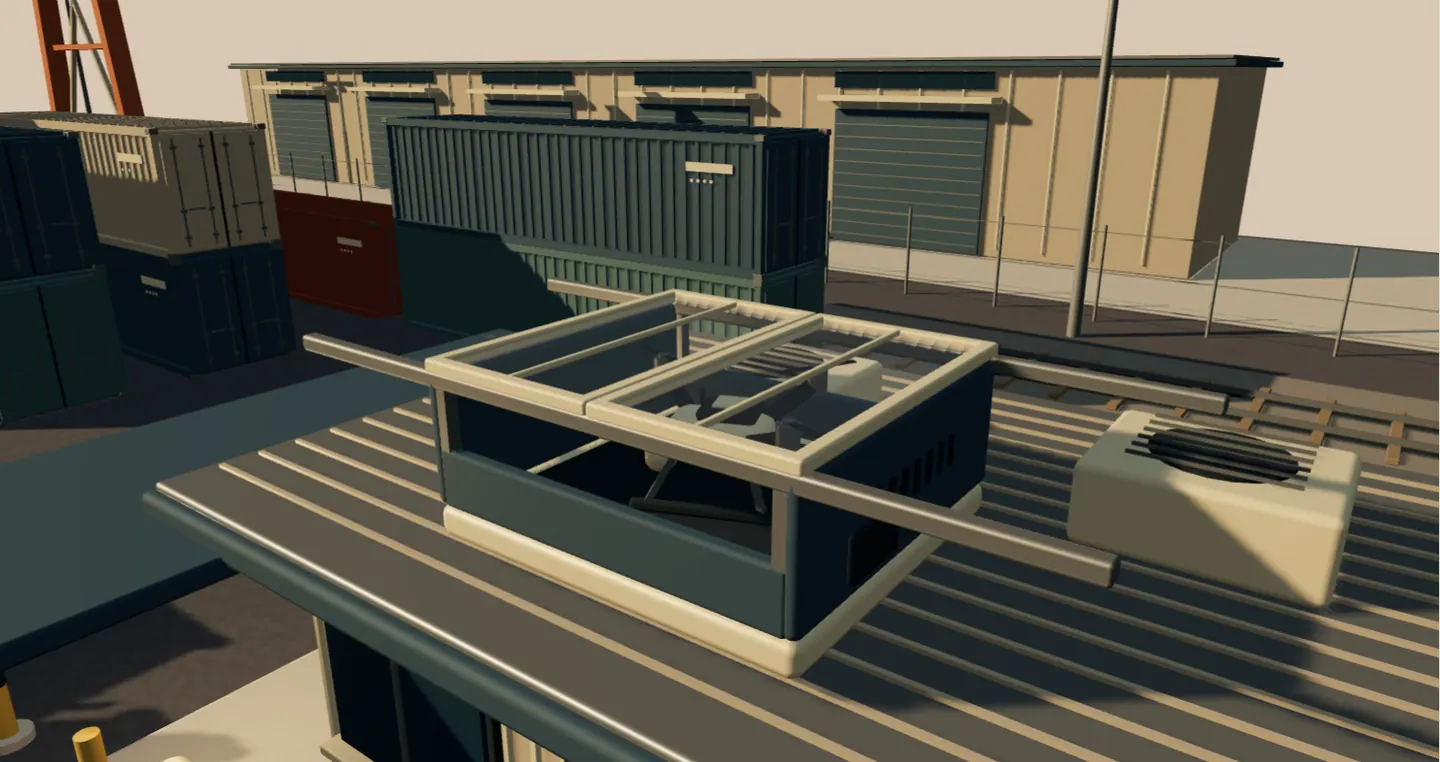
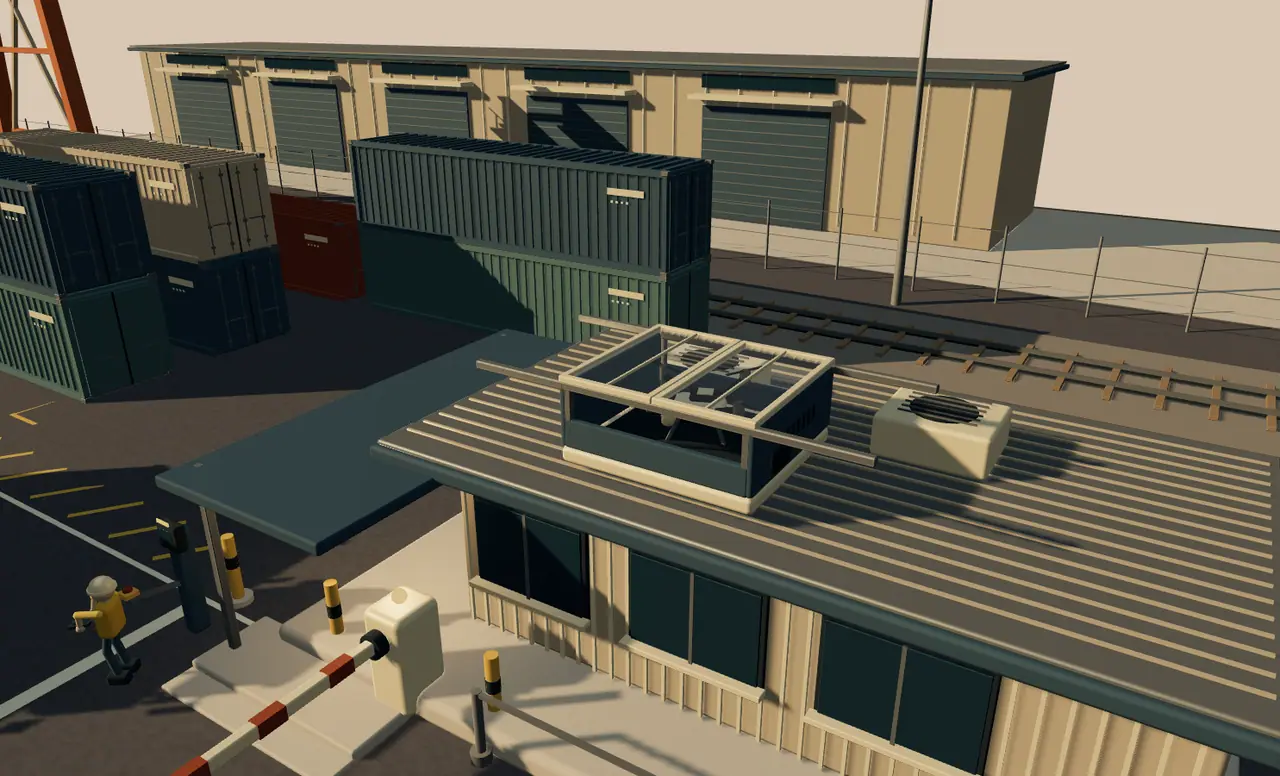
Make logistics incident continuous and automatic
Author a continuous PCHIP route through the full122-second cargo diversion,
operator review, separate staff response and requested drone/dock cycle.
Keep approval within the story, with readable review and checkpoint dwells.
Retain accepted mechanics, clarify phone staff/control framing and labels,
and regenerate the affected state bank from the authored camera source.

Validated production desktop/phone automatic playback, source/render camera
parity, optional controls, exact reverse pixels, fallback states, sampled
clearance, scoped resource reuse and bounded visual review. Typecheck,
contract, scoped continuity and production build pass.

Codex-Agent: tessure-s5
Codex-Session: 01a0d08f-a481-7203-b667-c5bffcc0366a

diff --git a/site/components/worlds/scenes/logistics-yard/content.ts b/site/components/worlds/scenes/logistics-yard/content.ts
@@ -1,52 +1,50 @@
 import type { CameraKey, ScenarioVariant, SceneDefinition } from '../../contract'
 import { T } from './incident'
-import { droneTimes } from './motion'
-const view=(at:number,position:[number,number,number],target:[number,number,number],mobilePosition=position,mobileTarget=target,cut=true,fov=44):CameraKey=>({at,position,target,mobilePosition,mobileTarget,cut,fov,easing:'smoother'})
+import { droneTimes, dronePosition } from './motion'
+const droneLook=(at:number):[number,number,number]=>{const p=dronePosition(at);return[p[0],p[1]+.5,p[2]]}
+const view=(at:number,position:[number,number,number],target:[number,number,number],mobilePosition=position,mobileTarget=target,fov=46):CameraKey=>({at,position,target,mobilePosition,mobileTarget,fov,interpolation:'pchip'})
 export const incident:ScenarioVariant={
  id:'insider-cargo-transfer',label:'Insider-assisted cargo theft attempt',role:'primary',duration:T.end,
  lesson:'Follow the physical load, compare it with the handling assignment, and keep release authority separate from imagery. People verify the incident while the cargo stays inside.',
  establishing:{title:'One marked load, an assigned bay',body:'Authored red-team simulation. Load A7 is scheduled for the empty staging bay. An empty carrier waits in the transfer lane. The orange-clad insider operates the crane; the blue-clad driver is the scripted accomplice. A supervisor and gate attendant work separately.',evidence:[{kind:'observed',source:'Handling assignment · illustrative',detail:'Marked load A7 → staging bay. No outbound release assigned.'},{kind:'uncertainty',source:'Fictional roles',detail:'Insider and accomplice are authored roles, not identities inferred by sensors.'}]},
  poster:'/worlds/logistics-yard/poster.webp',posterAlt:'A marked container being diverted by a gantry onto a waiting carrier, past its empty assigned bay, in an amber intermodal yard.',
  cameras:[
- view(0,[8,25,31],[-11,3,-6],[11,33,38],[-11,3,-5],true,48),
- view(T.hoistStart,[-9,4.1,1],[-15.1,1.4,-4.9],[-9.5,4.3,.5],[-15,1.5,-4.8]),
- view(T.detect,[-8,10,-2],[-20,3.1,-11],[-8,12,-1],[-20,3.1,-11]),
- view(T.locked,[-8,10,-2],[-20,3.1,-11],[-8,12,-1],[-20,3.1,-11],false),
- view(T.lifted,[-6,14,7],[-20,4.8,-7],[-4,18,11],[-20,4.5,-6]),
- view(T.overCarrier,[-7,12,12],[-20,4.1,0],[-5,15,16],[-20,4,0],false),
- view(T.deposited,[-11,6,8],[-19,2.3,0],[-10,7.4,10],[-19,2.4,0]),
- view(T.released,[-11,6,8],[-19,2.3,0],[-10,7.4,10],[-19,2.4,0],false),
- view(T.verify,[-8,4,5],[-13.6,2.5,0],[-8,4.6,5.2],[-13.6,2.6,0]),
- view(33,[-3,8,17],[-14,2,0],[-2,10,20],[-14,2.3,0]),
- view(T.sensors,[-7.2,7.7,-2.8],[-2.8,4.8,3.1],[-6.1,7,-2],[-2.3,5,3.5]),
- view(37,[8,8,18],[-5,2,0],[10,10,20],[-4,2,0]),
- view(T.correlate,[28,12,20],[12,2,-1],[28,15,24],[12,2,-1]),
- view(T.stopped,[27,8,17],[14,1.8,-2],[27,9,20],[14,2,-1.5]),
- view(T.decide,[31,13,17],[17,3,-3],[35,22,29],[16,3,-3]),
- view(T.respond,[29,8.5,10],[20.3,2.4,-4.2],[28,10,13],[20.2,2.5,-4.1]),
- view(55.2,[27,7.4,8],[19.1,1.5,-2.6],[28,9,11],[19.4,1.8,-3],false),
- view(T.supervisorAt,[21,3.5,2],[17.8,1.2,-2.3],[21,4,2],[17.8,1.2,-2.3]),
- view(T.control,[21,3.5,2],[17.8,1.2,-2.3],[21,4,2],[17.8,1.2,-2.3],false),
- view(T.signal,[22,5,5],[16.7,1.7,-1],[22,6,6],[16.7,1.7,-1]),
- view(60.5,[-8,4.7,2],[-13.8,1.2,-4.8],[-8,5.7,3],[-13.8,1.2,-4.8]),
- view(65.5,[-8,5.7,2],[-13.5,1.1,-5.5],[-7,7,4],[-13.3,1.2,-5.5]),
- view(73.5,[-1,5.7,2],[-6,1.1,-6.5],[-.5,7,4],[-6,1.2,-6.5],false),
- view(T.checkpoint,[-11,4,1],[-6,1.2,-6.5],[-11,5.5,2],[-6,1.2,-6.5]),
- view(T.droneOpen,[29,7,-2],[25.4,5,-6.9],[28.5,7.3,-1.8],[25.4,4.9,-6.9]),
- view(T.droneLift,[30,10,1],[25.4,6.4,-6.9],[30,10,1],[25.4,6.4,-6.9],false),
- view(82.3,[30,12,-1],[25.4,8.9,-6.9],[30,11.5,-1],[25.4,8.9,-6.9]),
- view(88.2,[24,12,-7],[20,9.3,-13],[24,11.5,-7.5],[20,9.3,-13],false),
- view(T.droneObserve,[25,13,-20],[16,5,-6],[23.5,12,-18.5],[18.5,7.5,-9]),
- view(T.droneReturn,[25,13,-20],[16,5,-6],[23.5,12,-18.5],[18.5,7.5,-9],false),
- view(94.4,[24,12,-7],[20,9.3,-13],[24,11.5,-7.5],[20,9.3,-13]),
- view(100.2,[29.4,11.6,-.9],[25.4,8.9,-6.9],[29.4,11.1,-1.4],[25.4,8.9,-6.9],false),
- view(100.3,[30,9.5,1],[25.4,6.4,-6.9],[30,9.5,1],[25.4,6.4,-6.9]),
- view(102.8,[30,9.5,1],[25.4,6.4,-6.9],[30,9.5,1],[25.4,6.4,-6.9],false),
- view(T.droneLand,[29,7,-2],[25.4,5,-6.9],[28.5,7.3,-1.8],[25.4,4.9,-6.9],false),
- view(T.droneClosed,[29,7,-2],[25.4,5,-6.9],[28.5,7.3,-1.8],[25.4,4.9,-6.9],false),
- view(109,[-11,4,1],[-6,1.2,-6.5],[-11,5.5,2],[-6,1.2,-6.5]),
- view(T.resolve,[24,19,25],[6,2,-4],[28,24,33],[6,2,-3]),
- view(T.end,[24,19,25],[6,2,-4],[28,24,33],[6,2,-3],false),
+ // One front-apron route; repeated poses provide readable authored viewing intervals.
+ view(0,[-1,18,22],[-17,3,-5],[-1,22,26],[-17,3,-5],48),
+ view(4,[-8,8,8],[-17,2.4,-5.6],[-7,10,10],[-17,2.4,-5.6]),
+ view(7,[-8,8,8],[-17,2.4,-5.6],[-7,10,10],[-17,2.4,-5.6]),
+ view(11,[-10,10,6],[-20,3.8,-9],[-8,12,9],[-20,3.8,-9]),
+ view(15,[-8,13,10],[-20,4.8,-6],[-6,16,13],[-20,4.8,-6]),
+ view(20,[-8,12,12],[-20,4.8,-1.5],[-6,15,15],[-20,4.8,-1.5]),
+ view(25,[-10,7,10],[-19,2.8,0],[-9,9,12],[-19,2.8,0]),
+ view(29,[-9,6,10],[-18.3,2.5,0],[-8,8,12],[-18.3,2.5,0]),
+ view(32,[-6,7,12],[-13,2.7,0],[-5,9,15],[-13,2.7,0]),
+ view(35,[0,9.5,14],[-7,3,0],[2,12,19],[-7,3,0]),
+ view(40,[14,10,18],[5,2.4,0],[17,13,22],[5,2.4,0]),
+ view(46,[27,9,17],[15,2.1,-2],[29,12,21],[15,2.1,-2]),
+ view(50,[27,9,17],[15,2.1,-2],[29,12,21],[15,2.1,-2]),
+ view(54,[27,8.5,10],[20.3,2.4,-4.2],[28,10,13],[20.3,2.4,-4.2]),
+ view(58,[21,4.5,4],[17.8,1.2,-2.3],[20.5,3.3,1],[17.65,1.25,-2.45]),
+ view(59.5,[21,4.5,4],[17.8,1.2,-2.3],[20.5,3.3,1],[17.65,1.25,-2.45]),
+ view(62,[21,6,8],[16.5,1.7,-1],[22,7.5,10],[16.5,1.7,-1]),
+ view(65,[7,10,13],[2,1.7,-3],[8,12,16],[2,1.7,-3]),
+ view(68,[-8,5.3,3],[-13.8,1.2,-4.8],[-7,6.7,5],[-13.8,1.2,-4.8]),
+ view(71,[-8,5.7,3],[-13.5,1.2,-5.5],[-7,7,5],[-13.5,1.2,-5.5]),
+ view(75,[-2,9.5,7],[-8.5,1.2,-6.7],[-1,10,8],[-8.5,1.2,-6.7]),
+ view(79,[2,8.5,8],[-6,1.2,-6.7],[0,10,7],[-6,1.2,-6.7]),
+ view(81,[2,8.5,8],[-6,1.2,-6.7],[0,10,7],[-6,1.2,-6.7]),
+ view(83,[22,11,6],[20,4,-6.9],[22,13,8],[20,4,-6.9]),
+ view(84,[30,8,0],[25.4,5,-6.9],[31,9,2],[25.4,4.9,-6.9]),
+ view(86.8,[30,8,0],[25.4,5,-6.9],[31,9,2],[25.4,4.9,-6.9]),
+ view(91.3,[30,12,-1],[25.4,8.9,-6.9],[30,11.5,-1],[25.4,8.9,-6.9]),
+ view(97.3,[29,13,-16],[17,5.5,-6],[27.5,12.5,-17],droneLook(97.3)),
+ view(101,[29,13,-16],[17,5.5,-6],[27.5,12.5,-17],droneLook(97.3)),
+ view(104,[29,13,-16],[19,6,-7],[27.5,12.5,-17],droneLook(104)),
+ view(107,[30,12,-7],[25,8.5,-7.5],[30,11.5,-7],droneLook(107)),
+ view(109.3,[30,10,1],[25.4,7,-6.9],[30,10,1],droneLook(109.3)),
+ view(113,[30,8,0],[25.4,5,-6.9],[31,9,2],[25.4,4.9,-6.9]),
+ view(116.5,[30,8,0],[25.4,5,-6.9],[31,9,2],[25.4,4.9,-6.9]),
+ view(122,[24,19,25],[6,2,-4],[28,24,33],[6,2,-3],48),
  ],
  beats:[
  {id:'detect',at:T.detect,title:'The insider seats the spreader',body:'At the physical crane controls, the scripted insider lowers the spreader onto marked load A7. The assigned staging bay remains empty. The transfer camera records the physical load and mechanism, not a person’s intent.',evidence:[{kind:'observed',source:'Transfer camera',detail:'Spreader seated on the same marked container shown in the source cradle.'}],subevents:[
@@ -59,14 +57,14 @@ export const incident:ScenarioVariant={
  {id:'complementary-views',at:T.sensors,title:'Different observations of the lane',body:'The fixed camera shows carrier/load continuity; panel radar contributes motion. The proposed thermal head contributes exposed work-lane occupancy within its sector. Gantry steel interrupts the transfer camera during part of the traverse; no sensor sees through containers.',evidence:[{kind:'observed',source:'Camera / radar / proposed thermal',detail:'Complementary illustrated observations cover the open approach. Thermal does not see through cab glazing or containers, identify cargo, or infer the operator’s role.'},{kind:'uncertainty',source:'Coverage',detail:'The far side of the held load remains outside the ground camera’s direct view.'}]}]},
  {id:'correlate',at:T.correlate,title:'Wrong transfer, no authorized release',body:'Proposed on-site correlation links the visible transfer, A7’s staging assignment and the missing outbound release. Preauthorized site policy keeps the exit held and raises a local review cue. The driver brakes before the closed barrier.',evidence:[{kind:'correlation',source:'Proposed local correlation',detail:'Camera/load continuity + independent approach track + handling/release records form one reviewable incident.'},{kind:'response',source:'Preauthorized release policy',detail:'Exit remains held; a local hold/review indication activates.'},{kind:'uncertainty',source:'Investigation',detail:'The actors’ roles are scripted; sensing alone does not prove collusion.'}],subevents:[
  {id:'carrier-stopped',at:T.stopped,title:'The cargo stays inside',body:'The carrier stops on the inspection apron, short of the closed exit boom. The container is supported and secured; driver and insider remain at separate controls.',evidence:[{kind:'observed',source:'Exit camera + gate contact',detail:'Carrier stationary inside; closed barrier contact unchanged.'}]}]},
- {id:'decide',at:T.decide,title:'Hold release and intervene locally',body:'Send the supervisor to the stop/hold control, have the gate attendant guide the crane operator to the staffed checkpoint, and request the proposed docked drone’s lateral view. More imagery cannot provide release permission.',action:'Keep release held; send the supervisor and request a docked aerial view',evidence:[{kind:'observed',source:'Current physical state',detail:'Container supported on stopped carrier; barrier closed; drone parked.'},{kind:'uncertainty',source:'Human verification',detail:'Handling authority and responsibility remain for staff to verify.'}]},
- {id:'respond',at:T.respond,title:'Staff take their separate roles',body:'After explicit approval, the supervisor leaves dispatch over the modeled steps. The gate attendant prepares to approach the insider at the crane controls. The driver stays in the cab; the load and empty crane mechanism remain stationary.',evidence:[{kind:'response',source:'Authorized staff response',detail:'Supervisor to hold control; attendant to crane operator; no person enters the suspended-tool or vehicle envelope.'}],subevents:[
+ {id:'decide',at:T.decide,title:'The operator authorizes a local check',body:'The operator checks the handling and release record, keeps the exit held, and authorizes staff intervention plus a proposed aerial view. The sequence continues automatically; imagery does not grant release permission.',action:'The operator keeps release held and authorizes staff and the docked aerial check',evidence:[{kind:'observed',source:'Current physical state',detail:'Container supported on stopped carrier; barrier closed; drone parked.'},{kind:'uncertainty',source:'Human verification',detail:'Handling authority and responsibility remain for staff to verify.'}]},
+ {id:'respond',at:T.respond,title:'Staff take their separate roles',body:'Following the operator’s in-story authorization, the supervisor leaves dispatch over the modeled steps. The gate attendant prepares to approach the insider at the crane controls. The driver stays in the cab; the load and empty crane mechanism remain stationary.',evidence:[{kind:'response',source:'Authorized staff response',detail:'Supervisor to hold control; attendant to crane operator; no person enters the suspended-tool or vehicle envelope.'}],subevents:[
  {id:'hold-control',at:T.control,title:'A physical local hold',body:'The supervisor presses the local stop/hold control. The carrier remains stopped and the exit stays closed. The gate attendant approaches the insider; the requested drone remains parked until the ground response is established.',evidence:[{kind:'response',source:'Supervisor + dock control',detail:'Hand contacts hold button; proposed drone remains parked after approval.'}]},
  {id:'driver-signalled',at:T.signal,title:'Keep the carrier here',body:'The supervisor gives a visible stop signal to the driver. The attendant approaches the insider, then guides them toward the staffed checkpoint; neither walks under the load.',evidence:[{kind:'response',source:'Ground team',detail:'Driver remains seated at the stopped carrier; separate escort route stays behind the work lane.'}]},
  {id:'operator-guided',at:T.guided,title:'Away from the crane controls',body:'The attendant gestures and leads toward the staffed checkpoint. The insider releases the console, walks around it and follows along the separate personnel route.',evidence:[{kind:'response',source:'Ground team',detail:'Two distinct people move away from the safe crane; driver remains in the stopped cab.'}]},
  {id:'checkpoint-held',at:T.checkpoint,title:'Operator and attendant at the checkpoint',body:'The attendant and insider reach separate positions at the staffed checkpoint. The driver remains with the held carrier. The attempt has not moved the cargo out of the yard.',evidence:[{kind:'observed',source:'Staffed checkpoint',detail:'Insider away from crane controls; attendant present; driver and cargo stay at inspection apron.'}]},
  {id:'dock-opening',at:T.droneOpen,title:'The requested dock opens',body:'With the ground team in place and release still held, the approved dock covers slide fully clear. The aircraft remains supported while its rotors power up.',evidence:[{kind:'response',source:'Approved proposed dock',detail:'Covers clear the aircraft before rotor spool and lift.'}]},
- {id:'drone-departure',at:T.droneLift,title:'An approved lateral view',body:'With its dock open and rotors powered, the proposed drone lifts from its supported pad into a clear side corridor. It observes equipment and the held load lane, not faces.',evidence:[{kind:'response',source:'Requested proposed drone',detail:'Supported takeoff follows human approval, outside crane/load/people envelopes.'}]},
+ {id:'drone-departure',at:T.droneLift,title:'An approved lateral view',body:'With its dock open and rotors powered, the proposed drone lifts from its supported pad into a clear side corridor. It observes equipment and the held load lane, not faces.',evidence:[{kind:'response',source:'Requested proposed drone',detail:'Supported takeoff follows the operator’s authored authorization, outside crane/load/people envelopes.'}]},
  {id:'airborne-transit',at:droneTimes.cruise,title:'A clear side corridor',body:'The drone clears the roof vertically before translating toward the far side of the held load. The aircraft banks with its path and the gimbal keeps the inspection target in view.',evidence:[{kind:'response',source:'Proposed aircraft and gimbal',detail:'Lateral transit remains outside the crane, stored cargo and staff envelopes.'}]},
  {id:'lateral-observation',at:T.droneObserve,title:'See the load’s far side',body:'The drone holds an aimed gimbal view from the lateral corridor, adding a sight line unavailable to the ground camera. The ground hold is unchanged; the additional image grants no permission.',evidence:[{kind:'response',source:'Proposed drone gimbal',detail:'Aimed at the marked load and held exit lane from the far side.'}]},
  {id:'drone-returning',at:T.droneReturn,title:'Return with the observation',body:'The requested inspection finishes and the drone returns along its clear corridor. Ground staff maintain their positions and the crane remains safe.',evidence:[{kind:'response',source:'Drone + ground team',detail:'Return begins; container, carrier and barrier remain held.'}]},

diff --git a/site/components/worlds/scenes/logistics-yard/actors.ts b/site/components/worlds/scenes/logistics-yard/actors.ts
@@ -25,7 +25,7 @@ const attendantBack=flatWalk([[-13,.05,-4.7],[-13.65,.05,-5.7],[-12.7,.05,-6.4],
 const insiderWalk=flatWalk([[-14.8,.05,-4.5],[-13.8,.05,-4.3],[-13.4,.05,-5.55],[-12,.05,-7],[-9,.05,-7],[-7,.05,-7]],T.insiderWalk,T.checkpoint,Math.PI,Math.PI/2)
 export function actorPose(role: 'supervisor'|'insider'|'attendant'|'driver',time:number):ActorPose {
   let core: {position:Vec3;yaw:number;feet:FootPose[];legs:ReturnType<typeof solveTwoBone>[]}
-  if(role==='supervisor') core=supervisorPose(time-22)
+  if(role==='supervisor') core=supervisorPose(time-24)
   else if(role==='insider') core=insiderWalk(time)
   else if(role==='attendant') core=time<T.guided?attendantOut(time):attendantBack(time)
   else {const position:Vec3=[carrierX(time)+.74,1.12,-.18],yaw=Math.PI/2;const hips=[-.13,.13].map(x=>local(position,yaw,[x,1,0])),feet=[-.16,.16].map(x=>({position:local(position,yaw,[x,.36,.53]),yaw,planted:true}));core={position,yaw,feet,legs:hips.map((h,i)=>solveTwoBone(h,[feet[i].position[0],feet[i].position[1]+.16,feet[i].position[2]],[1,1,0],.43,.43))}}
@@ -36,7 +36,7 @@ export function actorPose(role: 'supervisor'|'insider'|'attendant'|'driver',time
   const hands=[-1,1].map((side,i)=>{let hand=local(p,yaw,[side*.29,.9,mix(.08,.13*Math.sin((time-walkStart)*8+i*Math.PI),walkWeight)]);
     if(role==='insider'&&time<T.insiderWalk-.5){const target:Vec3=[controls.crane[0]-side*.2,controls.crane[1]+.25,controls.crane[2]+.2];const pressing=smoother(progress(time,1,T.controlsAt))*(1-smoother(progress(time,T.attendantAt-1,T.insiderWalk-.5)));hand=blend(hand,target,pressing);hand[1]+=.18*Math.sin(Math.PI*pressing)}
     if(role==='driver')hand=local(p,yaw,[side*.20,1.29,.35])
-    if(role==='supervisor'){hand=local(p,yaw,[side*.194,1.064,.345]);if(i===0){const press=smoother(progress(time,55.5,56.6))*(1-smoother(progress(time,57.6,58.5)));hand=blend(hand,controls.supervisor,press);hand[1]+=.12*Math.sin(Math.PI*press)}else{const stop=smoother(progress(time,59,60))*(1-smoother(progress(time,65,66)));hand=blend(hand,local(p,yaw,[.45,1.58,.19]),stop)}}
+    if(role==='supervisor'){hand=local(p,yaw,[side*.194,1.064,.345]);if(i===0){const press=smoother(progress(time,57.5,58.6))*(1-smoother(progress(time,59.6,60.5)));hand=blend(hand,controls.supervisor,press);hand[1]+=.12*Math.sin(Math.PI*press)}else{const stop=smoother(progress(time,61,62))*(1-smoother(progress(time,67,68)));hand=blend(hand,local(p,yaw,[.45,1.58,.19]),stop)}}
     if(role==='attendant'&&time>=T.attendantAt&&time<=T.insiderWalk+1){const u=smoother(progress(time,T.attendantAt,T.attendantAt+.7))*(1-smoother(progress(time,T.insiderWalk,T.insiderWalk+1)));hand=blend(hand,local(p,yaw,[side*.33,1.3,.35]),u)}return hand})
   const arms=hands.map((h,i)=>solveTwoBone(local(p,yaw,[i?.25:-.25,1.34,0]),h,local([0,0,0],yaw,role==='supervisor'?[0,0,1]:role==='insider'?blend([i?.2:-.2,.6,0],[0,0,1],smoother(progress(time,T.insiderWalk-1,T.insiderWalk))):[i?.7:-.7,-.4,.25]),.30,.28))
   return{...core,hands,arms,seated:role==='driver'}

diff --git a/site/components/worlds/scenes/logistics-yard/incident.ts b/site/components/worlds/scenes/logistics-yard/incident.ts
@@ -2,7 +2,7 @@ import type { Vec3 } from '../../contract'
 import { mix, progress } from '../../math'
 import { smoother } from './gait'
 /** Shared authored times; illustration pacing, never operational response latency. */
-export const T = { controlsAt: 2.5, hoistStart: 3, detect: 8, locked: 9.5, lifted: 13.5, overCarrier: 21.5, deposited: 26, released: 27.5, craneSafe: 31, verify: 31, sensors: 35, correlate: 40, stopped: 46, decide: 48, respond: 49, supervisorAt: 55.35, control: 57, signal: 59, attendantStart: 55.5, attendantAt: 61.5, guided: 62.5, insiderWalk: 64.5, checkpoint: 74.5, droneOpen: 75, droneLift: 78.8, droneObserve: 88.3, droneReturn: 94.3, droneLand: 103.8, droneClosed: 108.2, resolve: 114, end: 122 } as const
+export const T = { controlsAt: 2.5, hoistStart: 3, detect: 8, locked: 9.5, lifted: 13.5, overCarrier: 21.5, deposited: 26, released: 27.5, craneSafe: 31, verify: 31, sensors: 35, correlate: 40, stopped: 46, decide: 46.2, respond: 51, supervisorAt: 57.35, control: 59, signal: 61, attendantStart: 61, attendantAt: 67, guided: 68, insiderWalk: 70, checkpoint: 80, droneOpen: 84, droneLift: 87.8, droneObserve: 97.3, droneReturn: 103.3, droneLand: 112.8, droneClosed: 117.2, resolve: 118, end: 122 } as const
 export const load = { x: -20, sourceZ: -11, bayZ: -5.5, roadZ: 0, sourceBottom: .18, carrierBottom: 1.43, height: 2.88, length: 6.1, halfCornerX: 2.98, halfCornerZ: 1.16, toolOffset: 2.98 } as const
 export const carrierStart = load.x + 5.3
 const ease = (t: number, a: number, b: number) => smoother(progress(t, a, b))

diff --git a/site/components/worlds/scenes/logistics-yard/labels.tsx b/site/components/worlds/scenes/logistics-yard/labels.tsx
@@ -17,7 +17,7 @@ function visibleLabels(t: number) {
   if (t < 37) return []
   if (t < T.decide) return [5, 6]
   if (t < T.respond) return [2, 7]
-  if (t < 60.5) return [2]
+  if (t < T.signal + 1.5) return [2]
   if (t < T.droneOpen) return [0, 3]
   if (t < T.droneClosed) return [7]
   if (t < T.resolve) return [0, 3]
@@ -49,7 +49,8 @@ export function Labels({ clock }: { clock: WorldProps['clock'] }) {
       if (built.local.z >= -.5 || Math.abs(built.projected.x) > 1.3 || Math.abs(built.projected.y) > 1.3) { o.visible = false; return }
       const w = 190, h = 26, initialX = (built.projected.x + 1) * size.width / 2, initialY = (1 - built.projected.y) * size.height / 2
       const x = Math.max(w / 2 + 8, Math.min(size.width - w / 2 - 8, initialX))
-      let y = Math.max(72, Math.min(size.height - 62, initialY))
+      // The two staff labels sit above the small phone figures, preserving their visible arrival.
+      let y = size.width < 600 && i === 2 ? 72 : size.width < 600 && active.includes(0) && active.includes(3) ? (i === 0 ? 72 : 105) : Math.max(72, Math.min(size.height - 62, initialY))
       for (const b of boxes) if (Math.abs(x - b.x) < w + 5 && Math.abs(y - b.y) < h + 5) y = b.y + h + 7 < size.height - 62 ? b.y + h + 7 : b.y - h - 7
       boxes.push({ x, y })
       built.projected.x = x / size.width * 2 - 1; built.projected.y = 1 - y / size.height * 2; built.projected.unproject(camera)

diff --git a/site/components/worlds/scenes/logistics-yard/motion.ts b/site/components/worlds/scenes/logistics-yard/motion.ts
@@ -9,7 +9,7 @@ export const crane = { railTop: 17.485, wheelRadius: .23, wheelY: 17.715, cableT
 export function trolleyPose(time: number) { const p=transferPose(time);return{z:p.trolleyZ,y:p.tool[1],wheelAngle:p.wheelAngle} }
 
 export const dock = { x: 25.4, z: -6.9, roofTop: 3.7875, surfaceY: 4.18, coverY: 5.17, coverTravel: 1.5, halfWidth: 1.45, halfDepth: 1.3 } as const
-export const droneTimes = { open: T.droneOpen, opened: 77.4, power: 77.5, lift: T.droneLift, cruise: 82.3, observe: T.droneObserve, returning: T.droneReturn, descend: 100.3, landed: T.droneLand, stopped: 105.3, close: 105.8, closed: T.droneClosed, record: T.resolve, end: T.end } as const
+export const droneTimes = { open: T.droneOpen, opened: 86.4, power: 86.5, lift: T.droneLift, cruise: 91.3, observe: T.droneObserve, returning: T.droneReturn, descend: 109.3, landed: T.droneLand, stopped: 114.3, close: 114.8, closed: T.droneClosed, record: T.resolve, end: T.end } as const
 export const rotorCenters: Vec3[] = [-1, 1].flatMap(x => [-1, 1].map(z => [x * .58, .79, z * .58] as Vec3))
 export const droneSkids: Vec3[] = [-.42, .42].flatMap(x => [-.43, .43].map(z => [x, 0, z] as Vec3))
 export const gimbalMount: Vec3 = [0, .24, .43]
